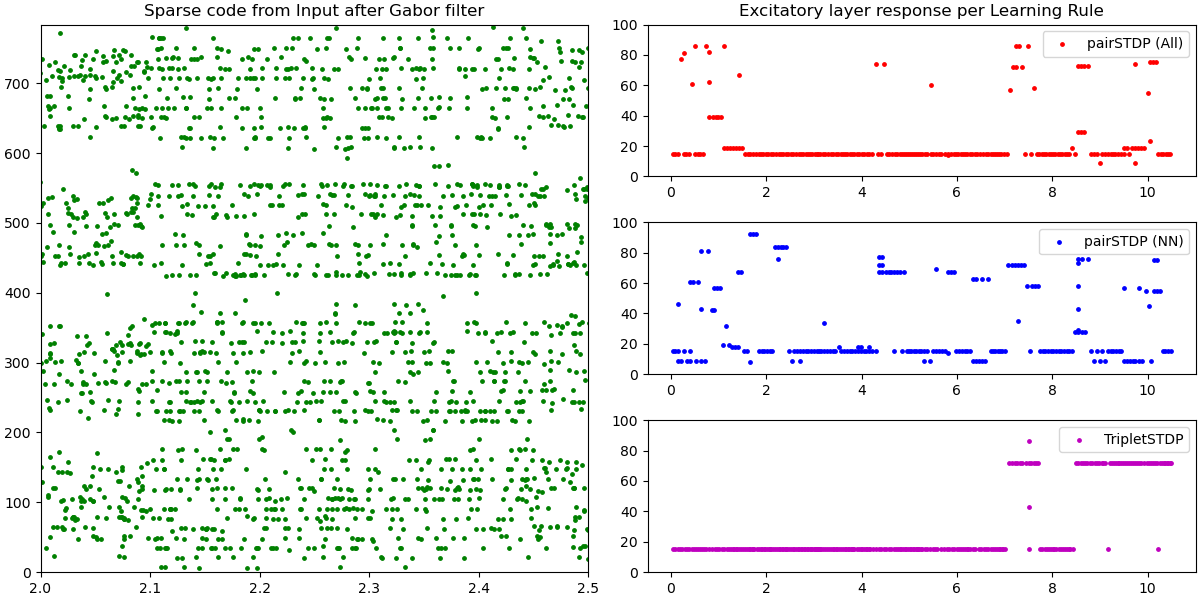
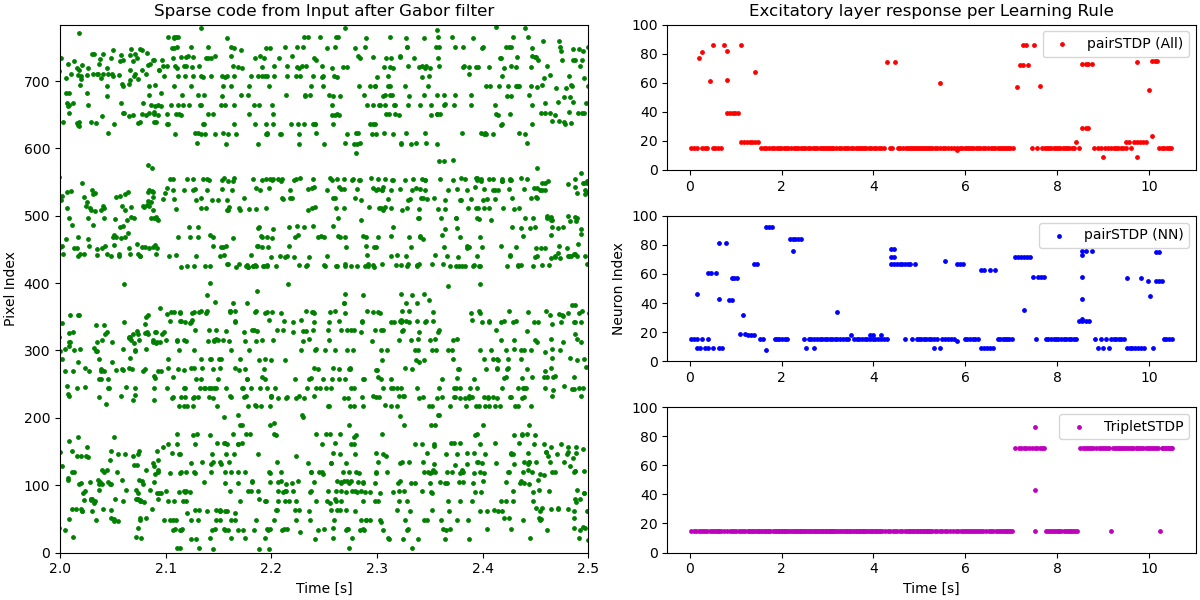
Update labels for Img code plot

diff --git a/Behavior/plot.py b/Behavior/plot.py
@@ -44,6 +44,8 @@ def plot_Inp_code(Inp_time:np.ndarray, Inp:np.ndarray,
     axs_inp.scatter(Inp_time, Inp, color='g', s=6)
     axs_inp.set_ylim(0, 784)
     axs_inp.set_xlim(2, 2.5)
+    axs_inp.set_xlabel('Time [s]')
+    axs_inp.set_ylabel('Pixel Index')
 
     axs_pairSTDP = fig.add_subplot(gs[0, 1])
     axs_pairSTDP.set_title('Excitatory layer response per Learning Rule')
@@ -55,11 +57,13 @@ def plot_Inp_code(Inp_time:np.ndarray, Inp:np.ndarray,
     axs_pairSTDPNN.scatter(pairSTDPNN_time, pairSTDPNN, color='b', label='pairSTDP (NN)', s=6)
     axs_pairSTDPNN.set_ylim(0, 100)
     axs_pairSTDPNN.legend()
+    axs_pairSTDPNN.set_ylabel('Neuron Index')
 
     axs_TripletSTDP = fig.add_subplot(gs[2, 1], sharex=axs_pairSTDP)
     axs_TripletSTDP.scatter(TripletSTDP_time, TripletSTDP, color='m', label='TripletSTDP', s=6)
     axs_TripletSTDP.set_ylim(0, 100)
     axs_TripletSTDP.legend()
+    axs_TripletSTDP.set_xlabel('Time [s]')
     plt.savefig('Behavior/Img_code.png')
 
 plot_mem_potential(gb_time=np.load('Behavior/pairSTDP/All_Interaction/Global_timestep.npy'),
